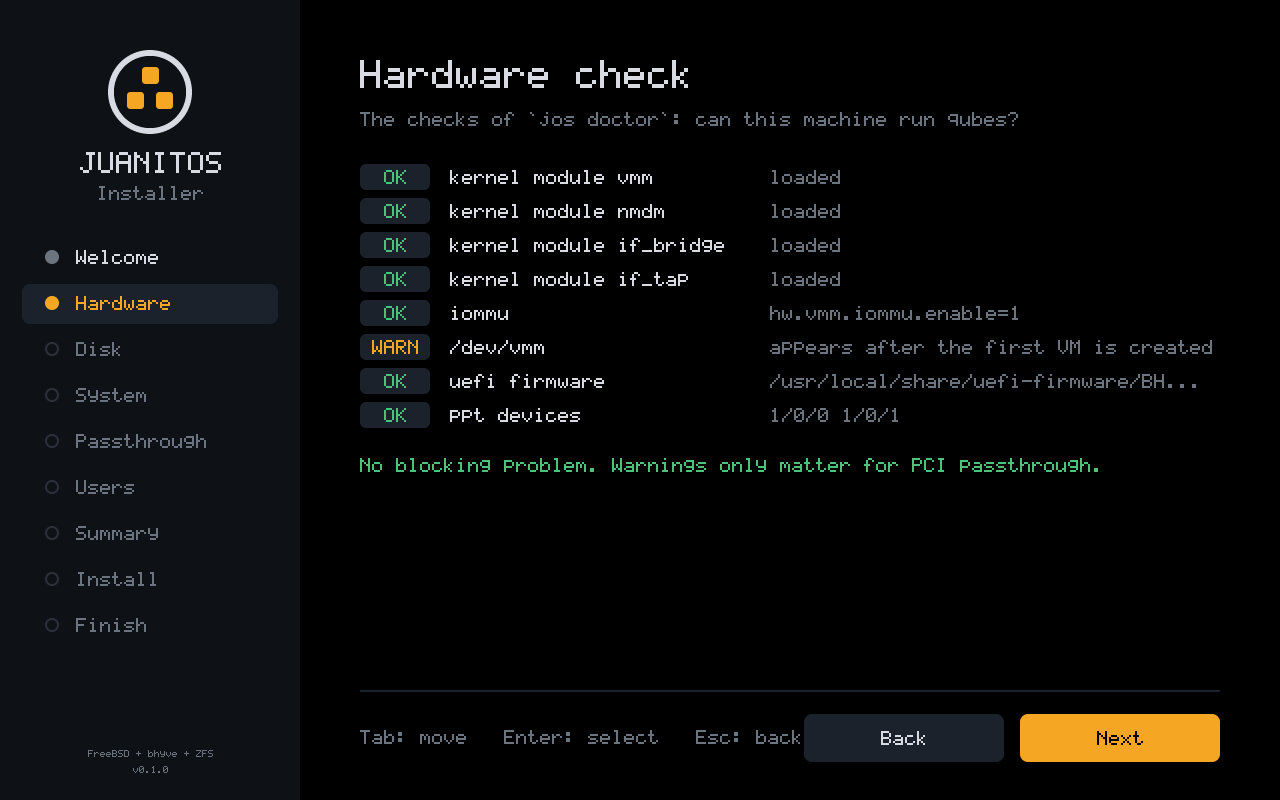
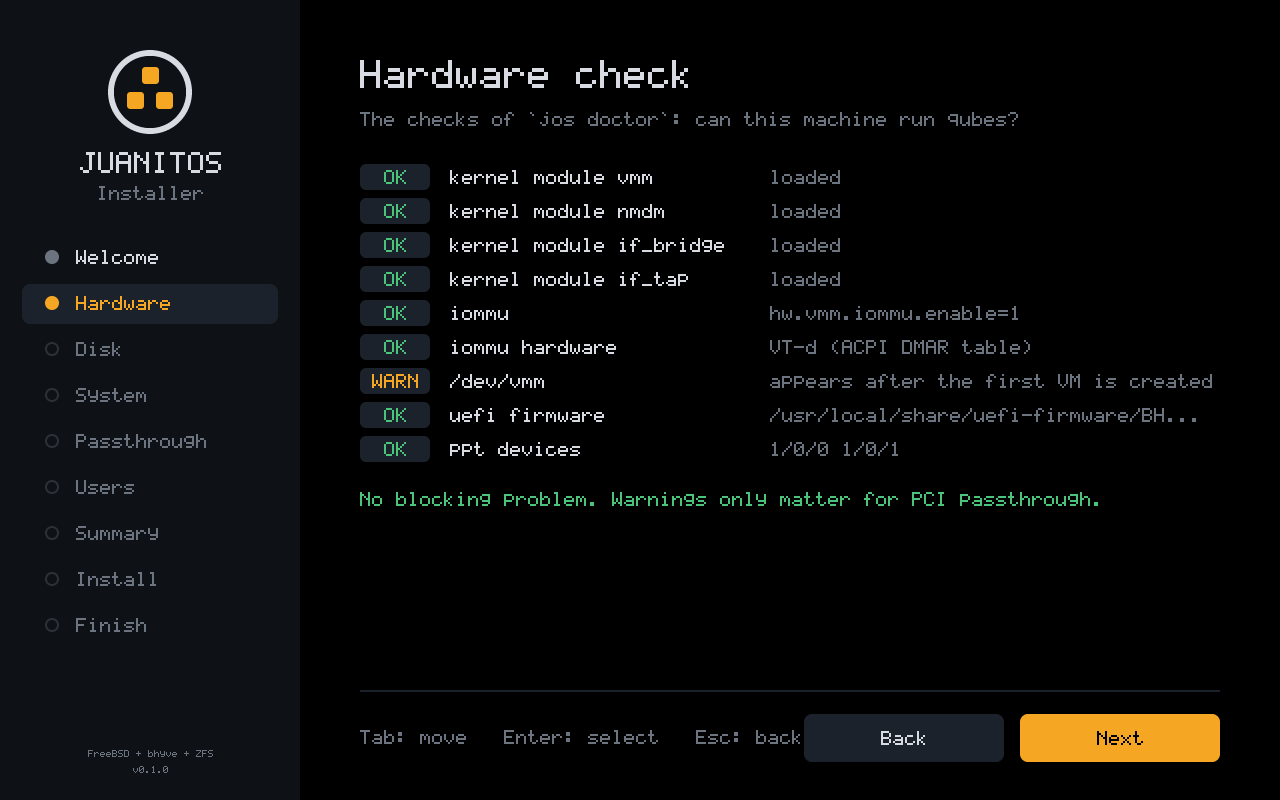
doctor: Warn when the firmware exposes no IOMMU

diff --git a/crates/juanitos-core/src/doctor.rs b/crates/juanitos-core/src/doctor.rs
@@ -161,6 +161,62 @@ pub fn cpu_virt_check(dmesg: Option<&str>) -> Check {
     }
 }
 
+/// Signatures of the ACPI tables in `acpidump -t` output, whose headers
+/// read `  DMAR: Length=80, Revision=1, ...`.
+pub fn acpi_signatures(acpidump: &str) -> Vec<String> {
+    acpidump
+        .lines()
+        .filter_map(|l| l.trim_start().split_once(": Length="))
+        .map(|(sig, _)| sig)
+        .filter(|sig| sig.len() == 4 && sig.chars().all(|c| c.is_ascii_alphanumeric()))
+        .map(String::from)
+        .collect()
+}
+
+/// Whether the firmware exposes the IOMMU vmm will use: an ACPI DMAR table
+/// on Intel (VT-d), IVRS on AMD (AMD-Vi). `hw.vmm.iommu.enable=1` is only
+/// a request; with the IOMMU switched off in the firmware setup vmm finds
+/// no table and passthrough fails when the qube starts. A warning, not a
+/// failure: qubes without passthrough still run.
+pub fn firmware_iommu_check(acpidump: Option<&str>, amd_cpu: bool) -> Check {
+    const NAME: &str = "iommu hardware";
+    let Some(acpidump) = acpidump else {
+        return Check::new(
+            NAME,
+            Status::Warn,
+            "could not run `acpidump -t` (run as root); cannot tell whether the firmware exposes an IOMMU",
+        );
+    };
+    let (want, other, vendor, feature) = if amd_cpu {
+        ("IVRS", "DMAR", "AMD", "AMD-Vi")
+    } else {
+        ("DMAR", "IVRS", "Intel", "VT-d")
+    };
+    let tables = acpi_signatures(acpidump);
+    let has = |sig: &str| tables.iter().any(|t| t == sig);
+    if has(want) {
+        Check::new(NAME, Status::Ok, format!("{feature} (ACPI {want} table)"))
+    } else if has(other) {
+        Check::new(
+            NAME,
+            Status::Warn,
+            format!(
+                "the firmware has an ACPI {other} table but the CPU is {vendor}: vmm uses {feature} \
+                 ({want}), so PCI passthrough will fail"
+            ),
+        )
+    } else {
+        Check::new(
+            NAME,
+            Status::Warn,
+            format!(
+                "no ACPI {want} table: enable {feature} (often \"VT-d\" or \"IOMMU\") in the BIOS/UEFI \
+                 setup, or PCI passthrough (sys-net's NIC, the gpu qube) will fail"
+            ),
+        )
+    }
+}
+
 /// Kernel modules a dom0 needs. Checked by *module* name (`kldstat -q -m`,
 /// as rc.subr's `load_kld` does), which also finds modules compiled into
 /// GENERIC such as `if_tap` (part of `if_tuntap`), unlike the file names a
@@ -231,7 +287,8 @@ pub fn run_host_checks(runner: &dyn Runner, cfg: &GlobalConfig) -> Vec<Check> {
     // and amdvi refuses to initialise ("use hw.vmm.amdvi.enable=1") unless
     // asked, so on AMD `hw.vmm.iommu.enable=1` alone leaves `jos start`
     // failing with `vm_assign_pptdev: Device not configured`.
-    if is_amd_cpu(runner) {
+    let amd = is_amd_cpu(runner);
+    if amd {
         match runner.run("sysctl", &["hw.vmm.amdvi.enable"]) {
             Ok(out) if out.success() && parse_sysctl_value(&out.stdout) == "1" => {
                 checks.push(Check::new("amd-vi", Status::Ok, "hw.vmm.amdvi.enable=1"));
@@ -243,6 +300,11 @@ pub fn run_host_checks(runner: &dyn Runner, cfg: &GlobalConfig) -> Vec<Check> {
             )),
         }
     }
+    let acpidump = match runner.run("acpidump", &["-t"]) {
+        Ok(out) if out.success() => Some(out.stdout),
+        _ => None,
+    };
+    checks.push(firmware_iommu_check(acpidump.as_deref(), amd));
 
     // /dev/vmm
     if Path::new("/dev/vmm").exists() {
@@ -477,5 +539,73 @@ mod tests {
         assert!(!is_amd_cpu(&intel));
         let checks = run_host_checks(&intel, &cfg);
         assert!(checks.iter().all(|c| c.name != "amd-vi"));
+    }
+
+    /// `acpidump -t` of the nested dom0 (QEMU q35 with an AMD vIOMMU).
+    const ACPI_AMD: &str = "/*\n  RSD PTR: OEM=BOCHS, ACPI_Rev=2.0x (2)\n\tXSDT=0x7fb7d0e8, length=36, cksum=213\n */\n\
+/*\n  XSDT: Length=92, Revision=1, Checksum=131,\n\tOEMID=BOCHS, OEM Table ID=BXPC\n */\n\
+/*\n  APIC: Length=136, Revision=3, Checksum=96,\n */\n\
+/*\n  IVRS: Length=200, Revision=1, Checksum=40,\n */\n";
+
+    #[test]
+    fn acpi_table_signatures() {
+        assert_eq!(acpi_signatures(ACPI_AMD), vec!["XSDT", "APIC", "IVRS"]);
+        assert!(acpi_signatures("").is_empty());
+        // Only four-character signatures count.
+        assert!(acpi_signatures("  PCI devices: Length=1\n").is_empty());
+    }
+
+    #[test]
+    fn the_firmware_must_expose_the_iommu_of_the_cpu_vendor() {
+        let ok = firmware_iommu_check(Some(ACPI_AMD), true);
+        assert_eq!(ok.status, Status::Ok);
+        assert_eq!(ok.detail, "AMD-Vi (ACPI IVRS table)");
+        let intel = ACPI_AMD.replace("IVRS", "DMAR");
+        assert_eq!(
+            firmware_iommu_check(Some(&intel), false).detail,
+            "VT-d (ACPI DMAR table)"
+        );
+
+        // VT-d switched off in the setup: no DMAR table at all.
+        let off = firmware_iommu_check(Some("  APIC: Length=136, Revision=3,\n"), false);
+        assert_eq!(off.status, Status::Warn);
+        assert!(off.detail.contains("no ACPI DMAR table"), "{}", off.detail);
+        assert!(off.detail.contains("BIOS/UEFI"));
+
+        let mixed = firmware_iommu_check(Some(ACPI_AMD), false);
+        assert_eq!(mixed.status, Status::Warn);
+        assert!(mixed.detail.contains("IVRS table but the CPU is Intel"));
+
+        let unknown = firmware_iommu_check(None, true);
+        assert_eq!(unknown.status, Status::Warn);
+        assert!(unknown.detail.contains("run as root"));
+    }
+
+    #[test]
+    fn host_checks_read_the_acpi_tables() {
+        let cfg = GlobalConfig::default();
+        let get = |m: &MockRunner| {
+            run_host_checks(m, &cfg)
+                .into_iter()
+                .find(|c| c.name == "iommu hardware")
+                .unwrap()
+        };
+        let m = MockRunner::new().respond(
+            "acpidump",
+            &["-t"],
+            CmdOutput::ok(ACPI_AMD.replace("IVRS", "DMAR")),
+        );
+        assert_eq!(get(&m).status, Status::Ok);
+        assert!(m.calls().iter().any(|c| c == "acpidump -t"));
+        let m = MockRunner::new().respond(
+            "acpidump",
+            &[],
+            CmdOutput::failed(1, "/dev/mem: Permission denied"),
+        );
+        let c = get(&m);
+        assert_eq!(c.status, Status::Warn);
+        assert!(c.detail.contains("run as root"));
+        // A warning: the host can still run qubes without passthrough.
+        assert!(all_passed(&[c]));
     }
 }

diff --git a/crates/juanitos-core/src/sys.rs b/crates/juanitos-core/src/sys.rs
@@ -179,6 +179,7 @@ fn is_query(program: &str, args: &[&str]) -> bool {
         // `kenv name=value` sets and `kenv -u name` unsets a variable.
         "kenv" => !args.iter().any(|a| *a == "-u" || a.contains('=')),
         "gpart" => args.first() == Some(&"show"),
+        "acpidump" => args == ["-t"],
         "mount" => args == ["-p"],
         "ifconfig" => args.len() == 1,
         "route" => args.contains(&"get"),
@@ -413,6 +414,8 @@ mod tests {
         assert!(!is_query("kenv", &["hw.dmar.enable=1"]));
         assert!(!is_query("kenv", &["-u", "hw.dmar.enable"]));
         assert!(is_query("gpart", &["show"]));
+        assert!(is_query("acpidump", &["-t"]));
+        assert!(!is_query("acpidump", &["-o", "/tmp/dsdt"]));
         assert!(!is_query("gpart", &["destroy", "-F", "nda0"]));
         assert!(is_query("mount", &["-p"]));
         assert!(!is_query("mount", &["-t", "msdosfs", "/dev/da1s1", "/mnt"]));

diff --git a/crates/jos/tests/cli.rs b/crates/jos/tests/cli.rs
@@ -1579,6 +1579,10 @@ esac"#,
                 r#"case "$*" in *' -n '*) echo '1/0/0 1/0/1' ;; *) exit 1 ;; esac"#,
             ),
             ("zpool", "echo zroot"),
+            (
+                "acpidump",
+                "echo '  DMAR: Length=80, Revision=1, Checksum=9,'",
+            ),
         ],
     );
     let run_dir = e.dir.join("run");
@@ -1603,6 +1607,7 @@ esac"#,
 
     let doctor = ok(&["doctor"]);
     assert!(doctor.contains("hw.vmm.iommu.enable=1"), "{doctor}");
+    assert!(doctor.contains("VT-d (ACPI DMAR table)"), "{doctor}");
     assert!(doctor.contains("pool zroot online"), "{doctor}");
     assert!(doctor.contains("1/0/0 1/0/1"), "{doctor}");
 

diff --git a/crates/jos-install/src/ui.rs b/crates/jos-install/src/ui.rs
@@ -890,6 +890,7 @@ pub fn sample_wizard() -> Wizard {
             check("kernel module if_bridge", Status::Ok, "loaded"),
             check("kernel module if_tap", Status::Ok, "loaded"),
             check("iommu", Status::Ok, "hw.vmm.iommu.enable=1"),
+            check("iommu hardware", Status::Ok, "VT-d (ACPI DMAR table)"),
             check(
                 "/dev/vmm",
                 Status::Warn,

diff --git a/docs/gpu-passthrough.md b/docs/gpu-passthrough.md
@@ -11,7 +11,10 @@ device. The host keeps a separate (integrated or secondary) GPU for COSMIC.
   and on AMD also `hw.vmm.amdvi.enable=1` (vmm picks its IOMMU driver by
   CPU vendor and AMD-Vi stays off unless asked; the symptom is `jos start`
   failing with `vm_assign_pptdev: Device not configured`). `jos doctor`
-  checks both; the installer writes both.
+  checks both; the installer writes both. Those settings only ask for the
+  IOMMU: `jos doctor` also warns (`iommu hardware`) when the firmware
+  exposes none, i.e. `acpidump -t` lists no DMAR (Intel) or IVRS (AMD)
+  table, which usually means it is switched off in the setup.
 - The GPU and its companion functions (HDMI audio, USB-C controller on newer
   cards) in an IOMMU group that is not shared with devices the host needs.
 - `edk2-bhyve` package: NVIDIA guests must boot UEFI; bhyve's legacy

diff --git a/docs/hardware-testing.md b/docs/hardware-testing.md
@@ -11,8 +11,9 @@ In the firmware (BIOS/UEFI) setup:
 - **Secure Boot: off.** `jos-boot.efi` and FreeBSD's loader are not
   signed.
 - **Intel Virtualization Technology (VT-x) and VT-d: on** (AMD: SVM and
-  IOMMU/AMD-Vi). Without them the doctor fails `cpu virtualization` and
-  `iommu`, and no qube can start.
+  IOMMU/AMD-Vi). Without VT-x the doctor fails `cpu virtualization` and
+  no qube can start; without VT-d it warns on `iommu hardware` (no ACPI
+  DMAR table) and only passthrough (`sys-net`'s NIC, `gpu`) fails.
 - **Graphics on a hybrid laptop:** keep the hybrid mode in which the
   internal panel is driven by the integrated GPU (Intel Arc on the Lenovo
   16P). The dom0 desktop runs on that GPU; the discrete NVIDIA card is
